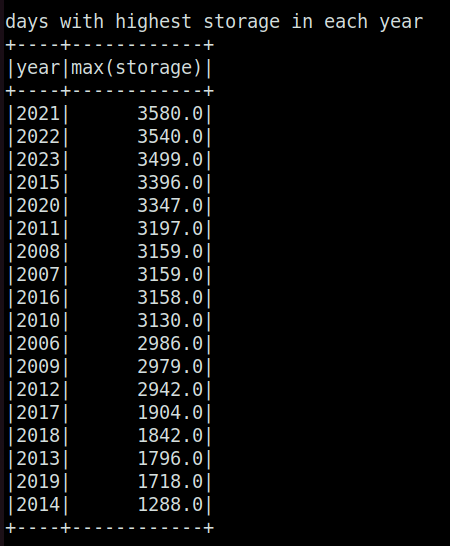
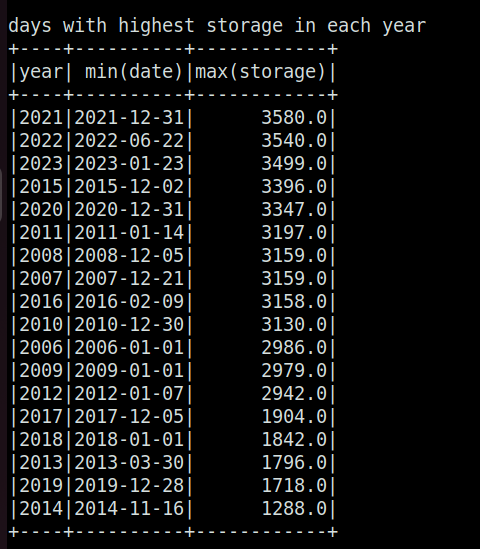
updated query to show date of min/max

Changed region(s): [[0.0, 0.0311, 0.9333, 1.0]]

diff --git a/read_data.py b/read_data.py
@@ -1,22 +1,25 @@
 from pyspark.sql import SparkSession
-from pyspark.sql.functions import year,month,round, col
+from pyspark.sql.functions import year,month,round,col
 
 spark = SparkSession.builder.getOrCreate()
 df = spark.read.csv("data/*/", inferSchema=True, header=True)
 
 df = df.withColumn("year",year(df['date'])).withColumn("month",month(df["date"]))
 
+# change based to 'level' to see level stats
+based = 'storage'
 
-print("years with highest average storage")
-df.groupBy("year").avg("storage").orderBy("avg(storage)", ascending=False).withColumn("avg(storage)",round(col('avg(storage)'),2)).show()
 
-# days with highest storage in each year - need to include the date also
-print("days with highest storage in each year")
-df.groupBy("year").max('storage').orderBy('max(storage)', ascending=False).show()
+print(f"years with highest average {based}")
+df.groupBy("year").avg(based).orderBy(f"avg({based})", ascending=False).withColumn(f"avg({based})",round(col(f'avg({based})'),2)).show()
 
-# days with lowest storage in each year - need to include the date
-print("days with lowest storage in each year")
-df.groupBy("year").min('storage').orderBy('min(storage)', ascending=False).show()
+print(f"days with highest {based} in each year")
+df1 = df.groupBy('year').max(based).withColumnRenamed('year','year1')
+df.join(df1,(df[based]==df1[f'max({based})']) & (df['year'] == df1['year1'])).groupBy('year').agg({'date':'min', based:'max'}).orderBy(f'max({based})',ascending=False).show()
+
+print(f"days with lowest {based} in each year")
+df1 = df.groupBy('year').min(based).withColumnRenamed('year','year1')
+df.join(df1,(df[based]==df1[f'min({based})']) & (df['year'] == df1['year1'])).groupBy('year').agg({'date':'min', based:'min'}).orderBy(f'min({based})',ascending=False).show()
 
 print("days with highest rainfall")
 df.select('date','rainfall').orderBy('rainfall',ascending=False).show(20)
@@ -30,7 +33,6 @@ df.select("date","inflow").orderBy("inflow",ascending=False).show(20)
 print("top 20 days with highest outflow")
 df.select("date","outflow").orderBy("outflow",ascending=False).show(20)
 
-# no of -1
 
 
 
